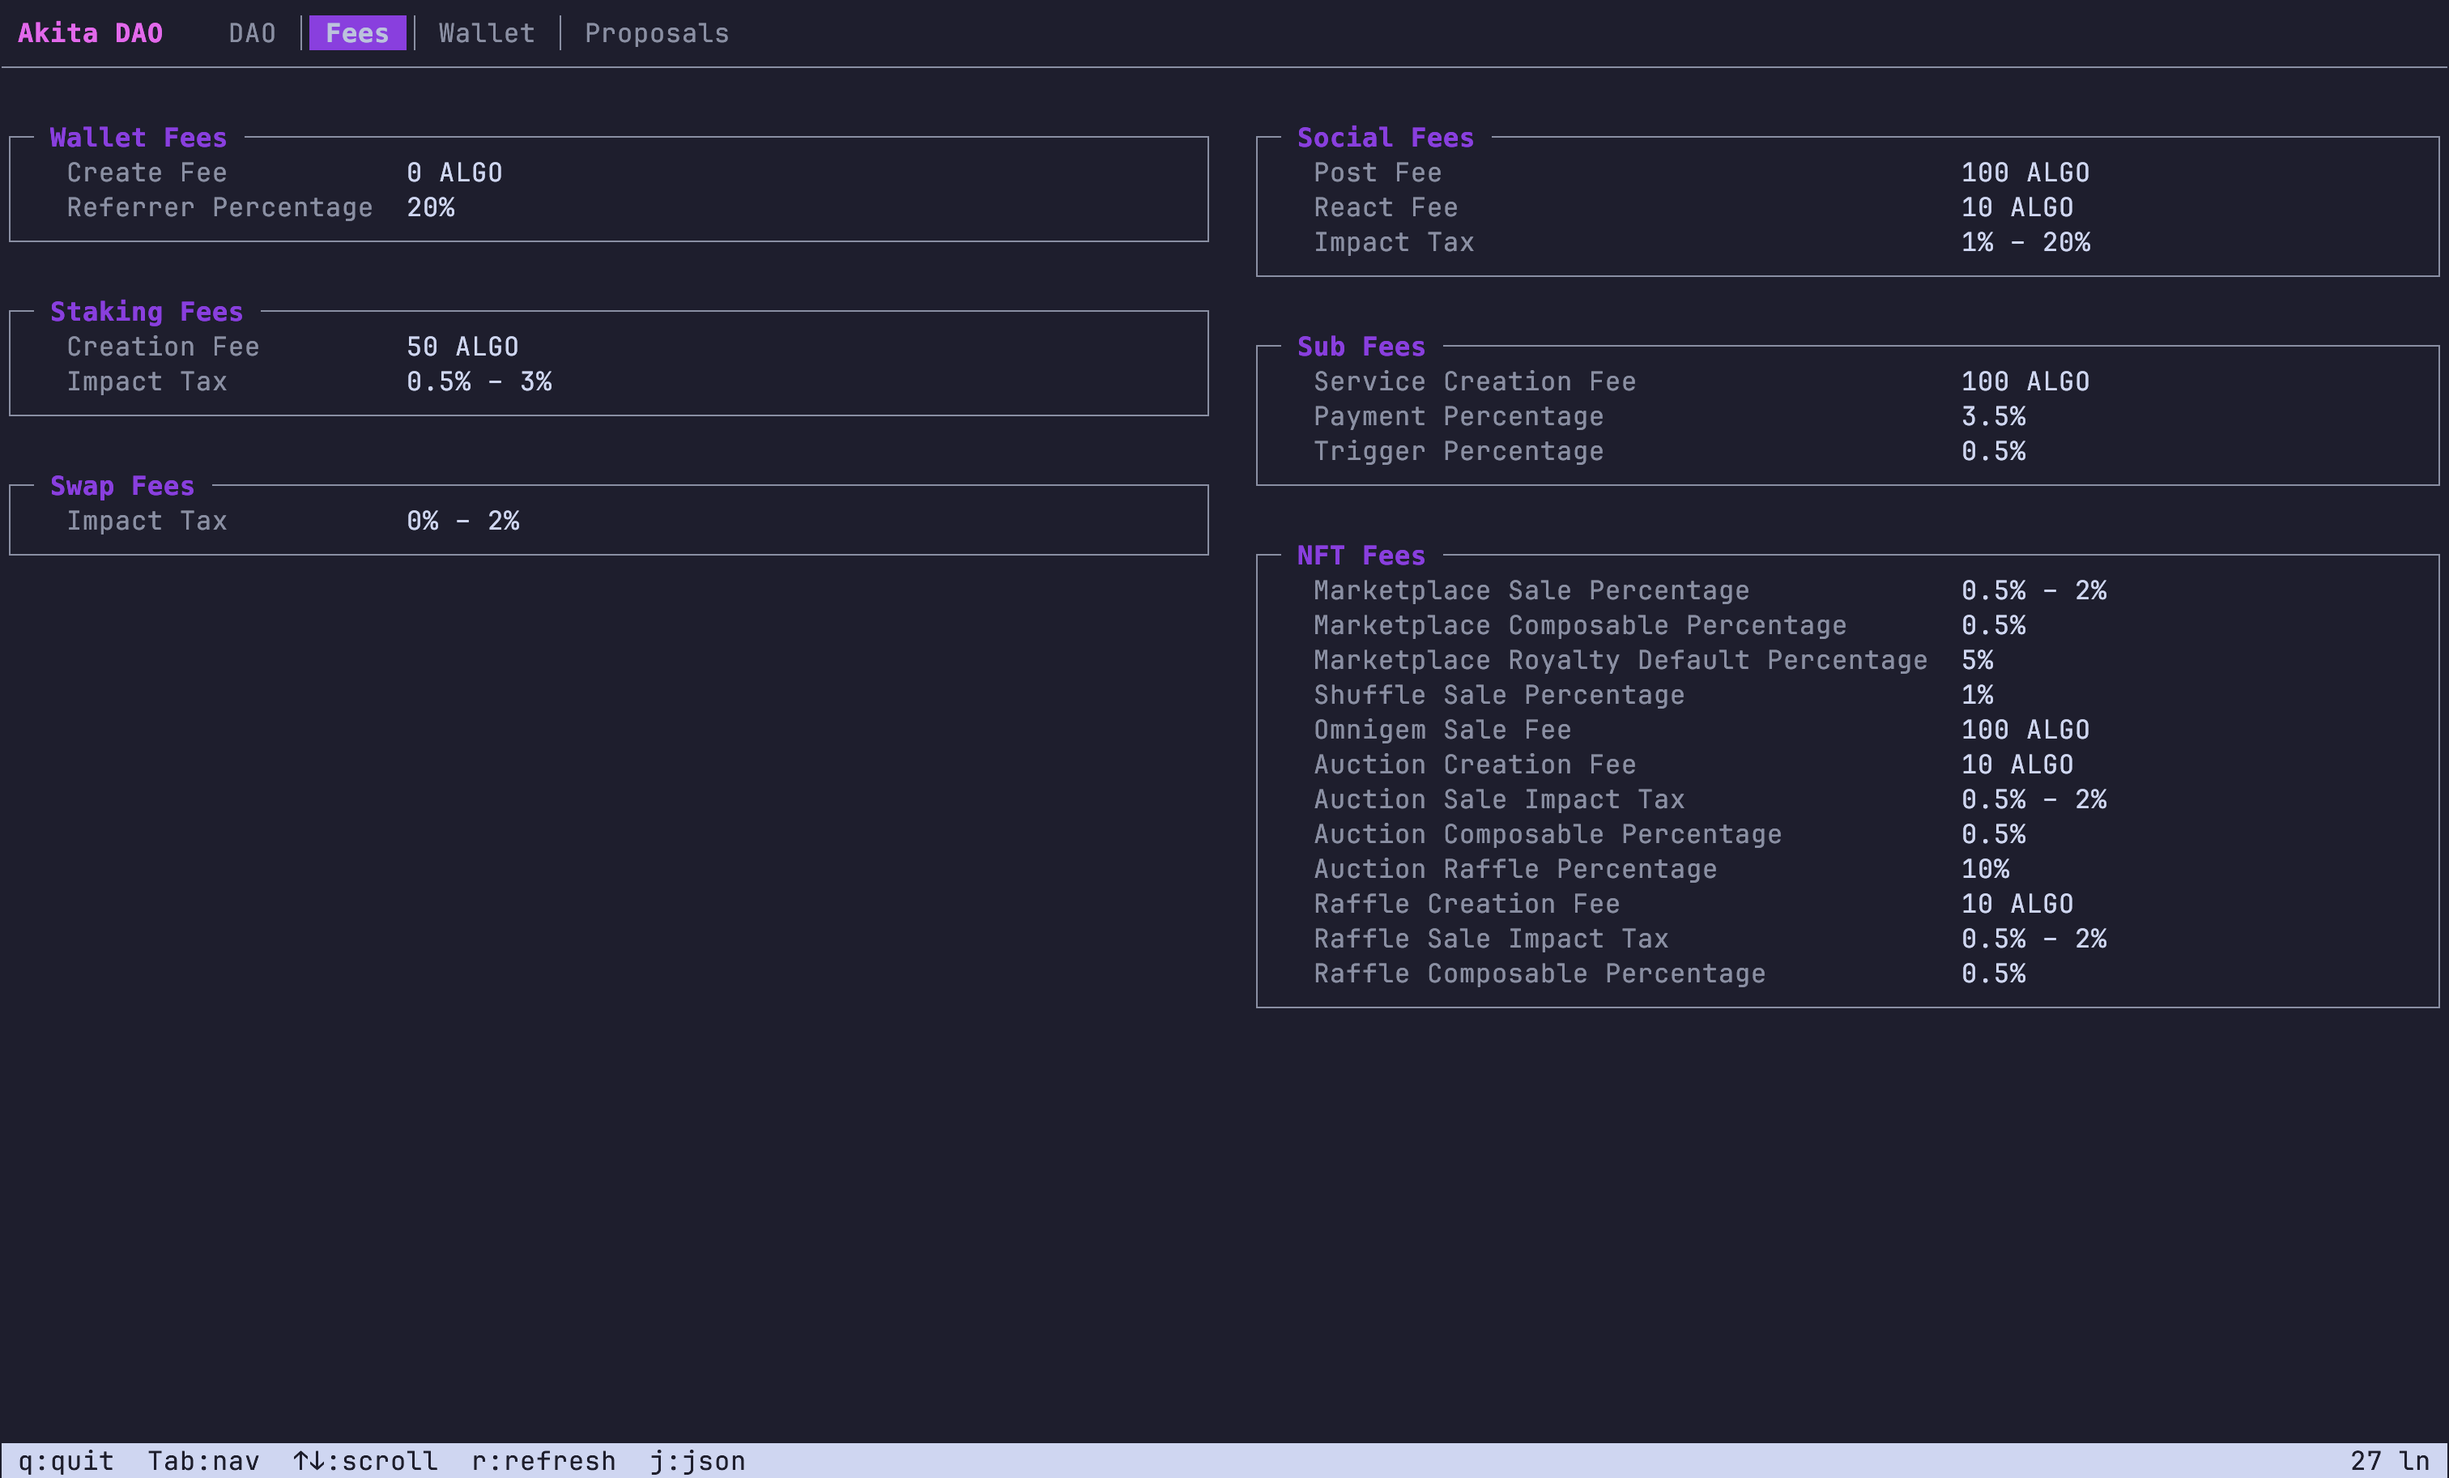
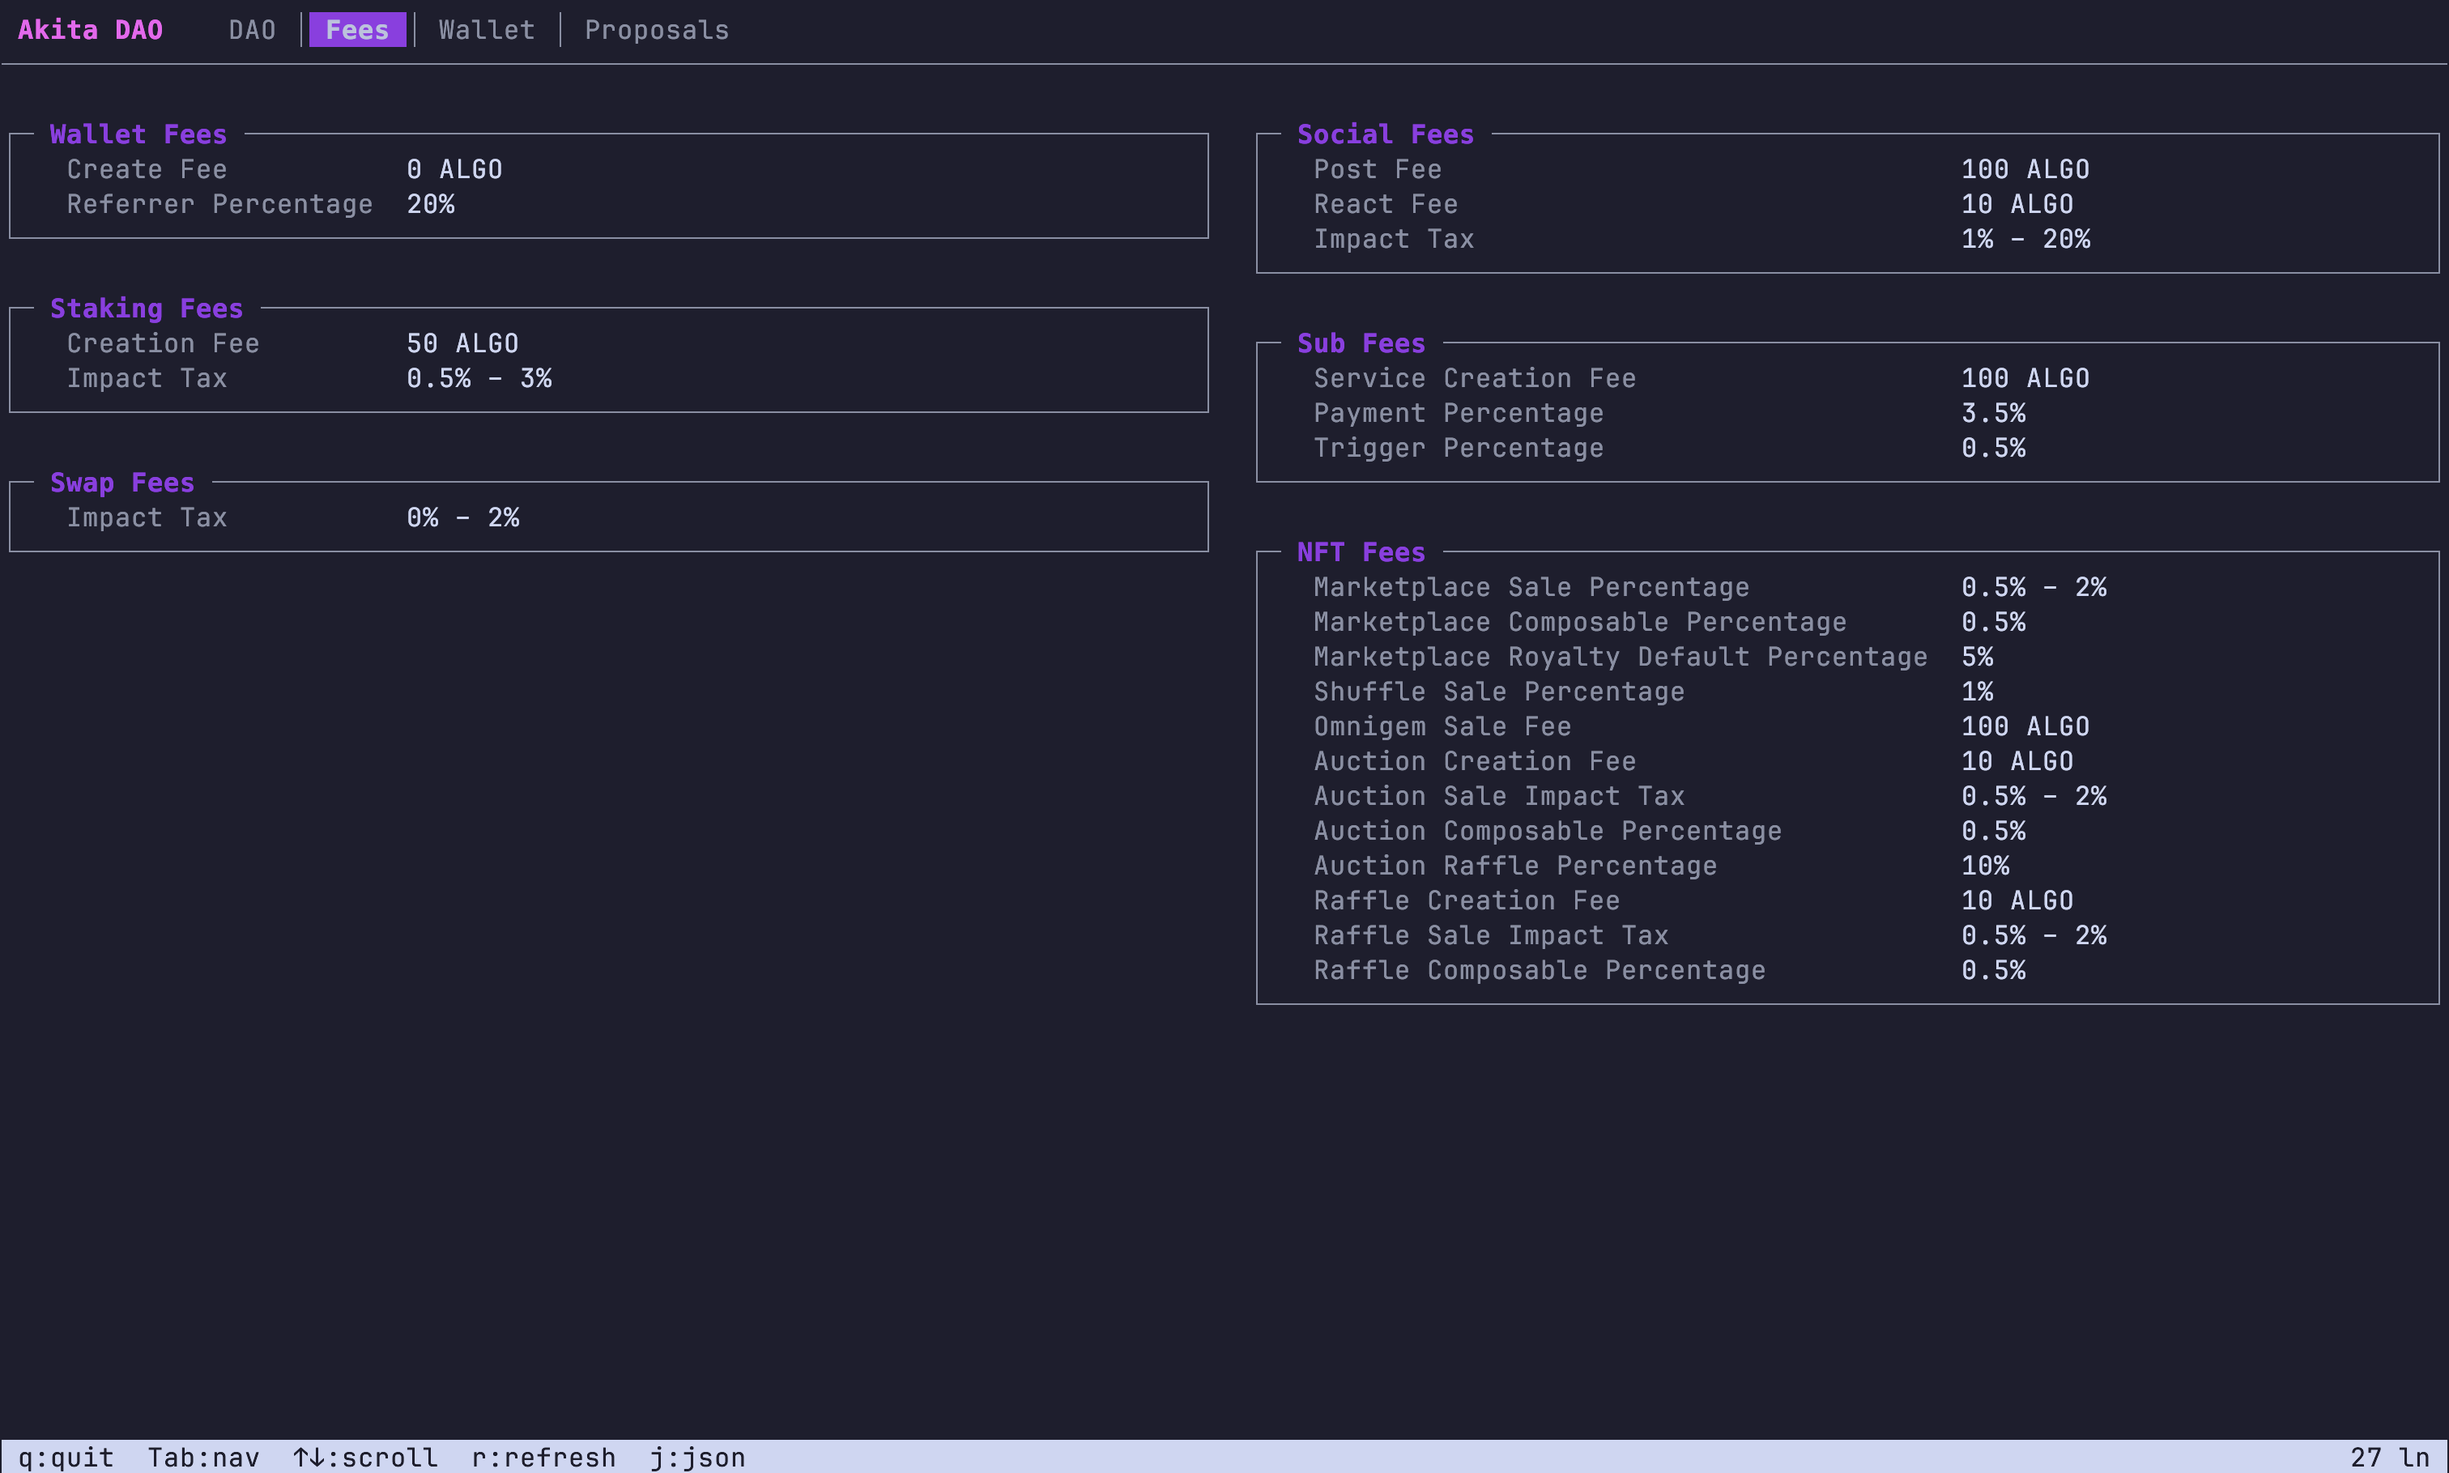
chore: new readme images

diff --git a/scripts/style-screenshots.ts b/scripts/style-screenshots.ts
@@ -3,8 +3,8 @@ import { readdirSync } from "fs";
 import { join } from "path";
 
 const IMAGES_DIR = join(import.meta.dir, "../images");
-const BORDER_RADIUS = 16;
-const PADDING = 90;
+const BORDER_RADIUS = 28;
+const PADDING = 100;
 
 async function styleScreenshot(inputPath: string, outputPath: string) {
   const image = sharp(inputPath);
